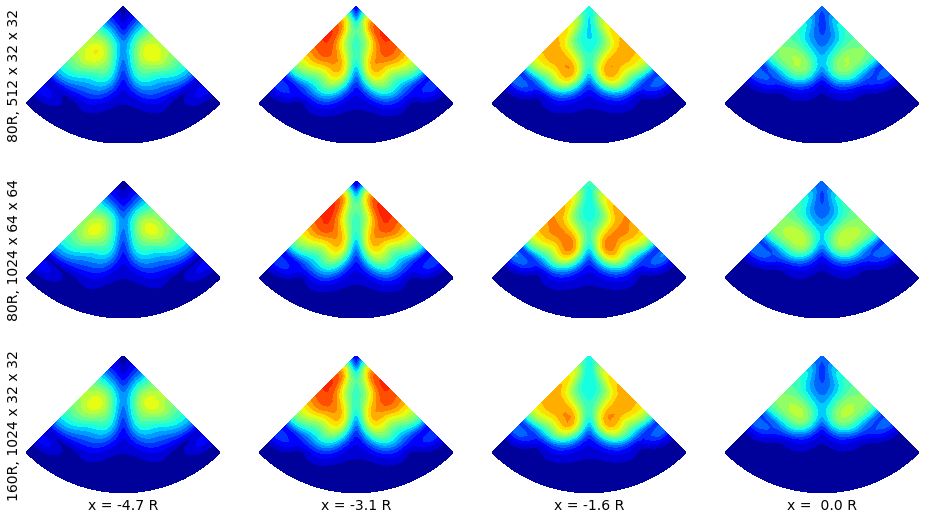
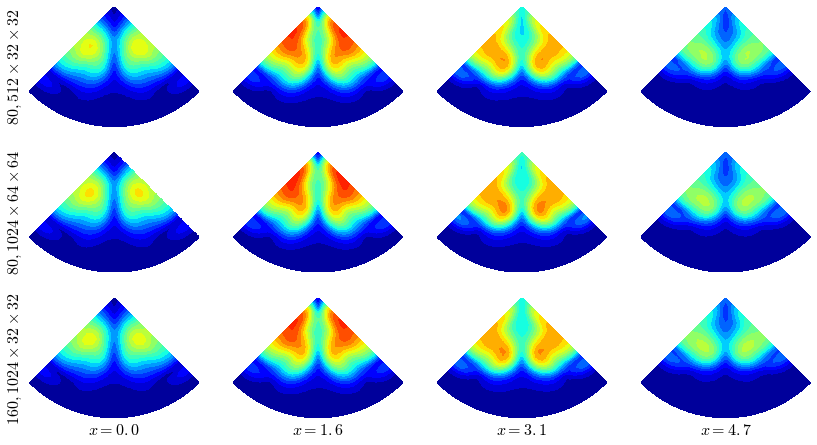
x independent mean flow instability analisis in process

diff --git a/ch2_edge.tex b/ch2_edge.tex
@@ -41,16 +41,15 @@
 \label{bisection_pic}
 \end{figure}
 
-С каждой новой итерацией решение проводит на сепаратрисе в среднем на 30 временных единиц больше. При использовании 64-битных чисел с плавающей точкой для представления действительных чисел в машинном виде всего может быть сделано порядка 50 итераций, соответственно, решение можно удержать на сепаратрисе в течении приблизительно 1500 временных единиц. Из них ориентировочно первые 500 происходит перестройка решения, после чего режим течения устанавливается. В согласии с результатами \cite{Avila2013}, решение на сепаратрисе выходит на условно периодический режим. Это решение, как и турбулентный порыв, имеет форму локализованной в пространстве структуры, которая сносится вниз по потоку с постоянной скоростью. В подвижной системе отсчета поле скорости в каждой точке испытывает периодические колебания. Для скорости сноса и периода колебаний получены значения $C_f=0.69$ и $T=60$ (в \cite{Avila2013} сообщается о $C_f=0.76$ и $T=60$). Во всех расчетах, выполненных автором, режим течения, устанавливающийся на сепаратрисе, не зависит от исходного турбулентного поля скорости $\v_{turb}$. 
+С каждой новой итерацией решение проводит на сепаратрисе в среднем на 30 временных единиц больше. При использовании 64-битных чисел с плавающей точкой для представления действительных чисел в машинном виде всего может быть сделано порядка 50 итераций, соответственно, решение можно удержать на сепаратрисе в течении приблизительно 1500 временных единиц. Из них ориентировочно первые 500 происходит перестройка решения, после чего режим течения устанавливается. В согласии с результатами \cite{Avila2013}, решение на сепаратрисе выходит на условно периодический режим. Это решение, как и турбулентный порыв, имеет форму локализованной в пространстве структуры, которая сносится вниз по потоку с постоянной скоростью. В подвижной системе отсчета поле скорости в каждой точке испытывает периодические колебания. Для скорости сноса и периода колебаний получены значения $C_f=0.69$ и $T=60$ (в \cite{Avila2013} сообщается о $C_f=0.76$ и $T=60$). Во всех выполненных расчетах режим течения, устанавливающийся на сепаратрисе, не зависит от исходного турбулентного поля скорости $\v_{turb}$. 
 
-Так как скорость сноса модельного порыва заранее не известна, решение на сепаратрисе было найдено в системе отсчета, скорость перемещения которой была задана равной $0.5$. Для того, чтобы получить решение в сопутствующей системе отсчета, метод поиска решения на сепаратрисе применен повторно в системе отсчета, двигающейся с уже известной скоростью перемещения порыва. Когда решение на сепаратрисе найдено, изменить скорость перемещения системы отсчета уже не представляется возможным в силу высокой чувствительности решения на сепаратрисе к возмущениям, возникающим в данном случае в результате неточностей численного интегрирования. 
-
+Так как скорость сноса модельного порыва заранее не известна, решение на сепаратрисе было найдено в системе отсчета, скорость перемещения которой была задана равной $0.5$. Для того, чтобы получить решение в сопутствующей системе отсчета, метод поиска решения на сепаратрисе применен повторно в системе отсчета, двигающейся с уже известной скоростью перемещения порыва. Когда решение на сепаратрисе найдено, изменить скорость перемещения системы отсчета уже не представляется возможным в силу высокой чувствительности решения к возмущениям, возникающим в данном случае в результате неточностей численного интегрирования. 
 
 Сравнение предельного решения на сепаратрисе с турбулентным порывом, представленное на рисунке \ref{3D_img}, показывает качественное согласие этих решений. Во всех структурах имеются протяженные области ускоренного и замедленного движения, концентрирующиеся в пристенной области трубы. Сохраняется и основная качественная особенность порыва --- медленное понижение осевой скорости на переднем фронте и более резкое её восстановление на заднем (см. рис. \ref{ucl_cmp_img}). Мы будем называть предельное решение на сепаратрисе {\it модельным порывом}.  
 
 \begin{figure}[h]
 \center{\includegraphics[width=1\linewidth]{ucl_cmp.png}}
-\caption{Сравнение скорости на оси трубы $U_{cl}$ в турбулентном порыв (зеленая линия) и в модельном порыве (синяя линия).}
+\caption{Сравнение скорости на оси трубы в турбулентном (1) и модельном (2) порывах.}
 \label{ucl_cmp_img}
 \end{figure}
 
@@ -58,7 +57,7 @@
 
 \begin{figure}[h]
 \center{\includegraphics[width=1\linewidth]{mesh_conv.png}}
-\caption{Сравнение предельного решения на сепаратрисе, полученного на нескольких расчетных сетках. Изображена интенсивность пульсаций в поперечном сечении трубы. Длина расчетной области $L_x$ и разрешение сетки, на которой получено решение, приведенное в строке, указаны слева. Ноль по оси $x$ расположен в сечении, где средняя скорость на оси трубы достигает минимума. }
+\caption{Сравнение предельного решения на сепаратрисе, полученного на нескольких расчетных сетках. Изображена интенсивность пульсаций в поперечном сечении трубы. Длина расчетной области $L_x$ и разрешение сетки, на которой получено решение, приведенное в строке, указаны слева. }
 \label{mesh_conv_pic}
 \end{figure}
 
@@ -137,12 +136,13 @@
 \label{lin_ls_cmp_pic}
 \end{figure}
 
-Полосчатые структуры достигают максимальной амплитуды в области $x\in[-5,0]$, где создаются условия для возникновения колебаний. Наиболее вероятный механизм генерации колебаний --- механизм потери устойчивости стационарной составляющей течения. Для проверки этой гипотезы стационарное течение с полем скорости $\V$ было исследовано на устойчивость к малым возмущениям $\v'$. Эволюцию возмущений $\v'$ описывает линеаризованное уравнение Навье-Стокса: 
+Полосчатые структуры достигают максимальной амплитуды в области $x\in[-5,0]$, где создаются условия для возникновения колебаний. Наиболее вероятный механизм генерации колебаний --- механизм потери устойчивости стационарной составляющей течения. Для проверки этой гипотезы стационарное течение $\V$ было исследовано на устойчивость к малым возмущениям $\v'$. Предположение малости $\v'$ позволяет линеаризовать уравнения. Линеаризованное уравнение Навье-Стокса имеет вид: 
 \begin{equation} \label{lin_eq}
-\frac{\partial \v'}{\partial t} = - c_f \frac{\partial \v'}{\partial x} - (\V, \nabla) \v' - (\v', \nabla) \V - \nabla p' + \frac{1}{\Re} \nabla^2 \v'. 
+\frac{\partial \v'}{\partial t} = c_f \frac{\partial \v'}{\partial x} - \i D' - (\V, \nabla) \v' - (\v', \nabla) \V - \nabla p' + \frac{1}{\Re} \nabla^2 \v',
 \end{equation}
+Штрихом обозначены пульсационные составляющие соответствующих величин. Расход $\v'$ равен нулю. Другие уравнения в постановке задачи линейные и не меняют свой вид. 
 
-Линеаризованные относительно возмущений уравнения с некоторыми случайными начальными условиями интегрировались по времени до выхода решения на режим экспоненциального изменения. Обнаружено, что действительно поле скорости $\V$ неустойчиво к малым возмущениям. Растущее возмущение $\sim\exp(\lambda+i\omega)t$ имеет коэффициент роста $\lambda=0.012$ и частоту $\omega=0.116$, близкую к частоте колебаний $2\pi/60=0.105$ в решении на сепаратрисе. Что еще более существенно, распределение амплитуды колебаний в растущем решении задачи линейной устойчивости оказывается близким к соответствующим распределениям колебательной составляющей решения на сепаратрисе (см. рис. \ref{lin_ls_cmp_pic}, \ref{lin_amp_cmp_pic}). Таким образом, нет сомнений, что механизмом появления колебаний является линейная неустойчивость стационарной составляющей движения.
+Линеаризованные относительно возмущений уравнения с некоторыми случайными начальными условиями интегрировались по времени до выхода решения на режим экспоненциального изменения. Обнаружено, что действительно поле скорости $\V$ неустойчиво к малым возмущениям. Растущее возмущение $\sim\exp(\lambda+i\omega)t$ имеет коэффициент роста $\lambda=0.012$ и частоту $\omega=0.116$, близкую к частоте колебаний $2\pi/60=0.105$ в решении на сепаратрисе. Что еще более существенно, распределение амплитуды колебаний в растущем решении задачи линейной устойчивости оказывается близким к соответствующим распределениям колебательной составляющей решения на сепаратрисе (см. рис. \ref{lin_ls_cmp_pic}, \ref{lin_amp_cmp_pic}). Таким образом, нет сомнений, что механизмом появления колебаний является линейная неустойчивость стационарной составляющей движения. 
 
 \begin{figure}[h]
 \center{\includegraphics[width=1\linewidth]{lin_amp_cmp.png}}
@@ -157,17 +157,45 @@
 
 \section{Влияние продольной неоднородности среднего поля скорости на форму пульсаций}
 
-Интересно отметить, что области наибольшей интенсивности пульсаций совпадает с областью резкого изменения скорости на оси трубы (см. рис. ). 
+Интересно отметить, что область наибольшей интенсивности пульсаций совпадает с областью резкого изменения скорости на оси трубы (см. рис. \ref{ucl_cmp_img}, \ref{amp_pic}). Аналогичную особенность выделяют также в турбулентном порыве \cite{Hof2010}. Для того, чтобы установить влияние продольной неоднородности стационарного течения на образование пульсаций, было исследовано на устойчивость однородное вдоль трубы поле скорости $\U$, воспроизводящее полосчатые структуры. В этом случае коэффициенты в уравнении \eqref{lin_eq} не зависят от $x$, и собственные решения могут быть представлены в виде $\v' = \hat \v(r,\theta,t) \exp(i \alpha x)$, что позволяет исключить переменную $x$ из постановки задачи. Уравнение \eqref{lin_eq} в этом случае принимает вид:
+\begin{equation*}
+\frac{\partial \hat v_x}{\partial t} =  i \alpha (c_f - U_x) \hat v_x - \hat d - i \alpha \hat p - (\U_{\perp},\nabla_{\perp}) \hat v_x - 
+(\hat \v_{\perp}, \nabla) U_x  + \frac{1}{\Re}( \nabla_{\perp}^2 - \alpha^2 ) \hat v_x,
+\end{equation*}
+\begin{equation*}
+\frac{\partial \hat \v_{\perp}}{\partial t} = i \alpha (c_f - U_x) \hat \v_{\perp}  - \nabla_{\perp} \hat p - (\U_{\perp},\nabla_{\perp}) 
+\hat \v_{\perp} - (\hat \v_{\perp}, \nabla) \U_{\perp} + \frac{1}{\Re}( \nabla_{\perp}^2 - \alpha^2 ) \hat \v_{\perp}, 
+\end{equation*}
+где $\perp$ обозначает проекцию соответствующей величины в плоскости поперечного сечения трубы, ортогональную $x$. Все величины, отмеченные крышечкой, комплексные и не зависят от $x$. Также меняет свой вид уравнение неразрывности:
+\begin{equation*}
+\nabla_{\perp} \cdot \hat \v_{\perp} = - i \alpha \hat v_x. 
+\end{equation*}
 
-Для того, чтобы оценить, какое влияние оказывается неоднородность стациоанрного течения в продольном направелнии, было исследовано на устойчивость также однородное вдоль поткоа поле скорости, повторяющее поле скорости в одном из сечений трубы. 
+
+\begin{figure}[h]
+\center{\includegraphics[width=1\linewidth]{cs_lin.png}}
+\caption{Значение волнового числа $\alpha$, инкремента нарастания $\lambda$ и фазовой скорости $c_f$ для наиболее быстрорастущего собственного возмущения, возникающего на однородном вдоль трубы поле скорости, повторяющем среднее поле скорости в сечении $x$ (синий) и пульсационной составляющей движения $\v_n$ (красный).}
+\label{cs_lin_pic}
+\end{figure}
 
 
-Целесообразно проверить на линейную устойчивость однородное вдоль трубы поле скорости. 
+
+Однородное вдоль трубы поле скорости $\V$ создавалось 
+Было выбрано несколько сечений трубы, среднее поле скорости в которых было использовано для создания однородного вдоль трубы поля $\V$. 
+
+ 
+\begin{figure}[h]
+\center{\includegraphics[width=0.8\linewidth]{cs_lin_map.png}}
+\caption{Сверху приведена амплитуда пульсаций наиболее быстрорастущего возмущения, возникающего на однородном вдоль трубы поле скорости, изображенном ниже. Однородное поле скорости повторяет среднее поле скорости в сечении $x$, указанном над иллюстрациями.}
+\label{cs_lin_map_pic}
+\end{figure}
 
 \section{Энергетический баланс между компонентами движения модельного порыва}
 
 
 
+\section{Обсуждение результатов}
 
+Общепринято, что непременным атрибутом цикла самоподдержания турбулентности в пристенных течениях являются полосчатые структуры --- долгоживущие конечноамплитудные образования, возникающие в пристенных областях. Рассмотренные в данной работе пространственно-локализованные турбулентные порывы также обладают полосчатыми структурами, что свидетельствует о вероятной близости механизма их самоподдержания с механизмом самоподдержания однородной (нелокализованной) пристенной турбулентности. Изучено численное решение уравнений Навье--Стокса, аппроксимирующее течение в турбулентном порыве. Это предельное решение на сепаратрисе, разделяющей области притяжения ламинарного и турбулентного решений. Простота временного поведения этого решения позволяет провести исчерпывающее исследование механизма его самоподдержания. На рассмотренном примере подтверждена определяющая роль полосчатых структур. Наглядно показан процесс образования вытянутых полос, включающий действие лифтап  эффекта на ограниченном отрезке длины с последующим конвективным растяжением вдоль стенки трубы. Наиболее важный результат проведенного исследования состоит в том, что обнаруженная неустойчивость полосчатого движения противоречит общепринятой точке зрения, согласно которой доминирующей является неустойчивость Кельвина--Гельмгольца, возникающая в пристенных областях полос замедленного движения. В рассмотренном примере уровень колебаний в области полос замедления минимален. Генерация колебаний происходит в промежуточной области между полосами на фоне резкого изменения скорости вдоль угловой координаты. Для выяснения деталей механизма обнаруженной неустойчивости планируется более подробное исследование. Вопрос о степени приложимости сделанных выводов к течению в турбулентном порыве и другим турбулентным течениям остается за рамками данного исследования и находится в настоящее время в стадии изучения.
 
 

diff --git a/shorts.tex b/shorts.tex
@@ -35,6 +35,7 @@
 \def\x{\mathbf{x}}
 \def\n{\mathbf{n}}
 \def\V{\mathbf{V}}
+\def\U{\mathbf{U}}
 \def\F{\mathbf{F}}
 \def\n{\mathbf{n}}
 \def\c{\mathbf{c}}
